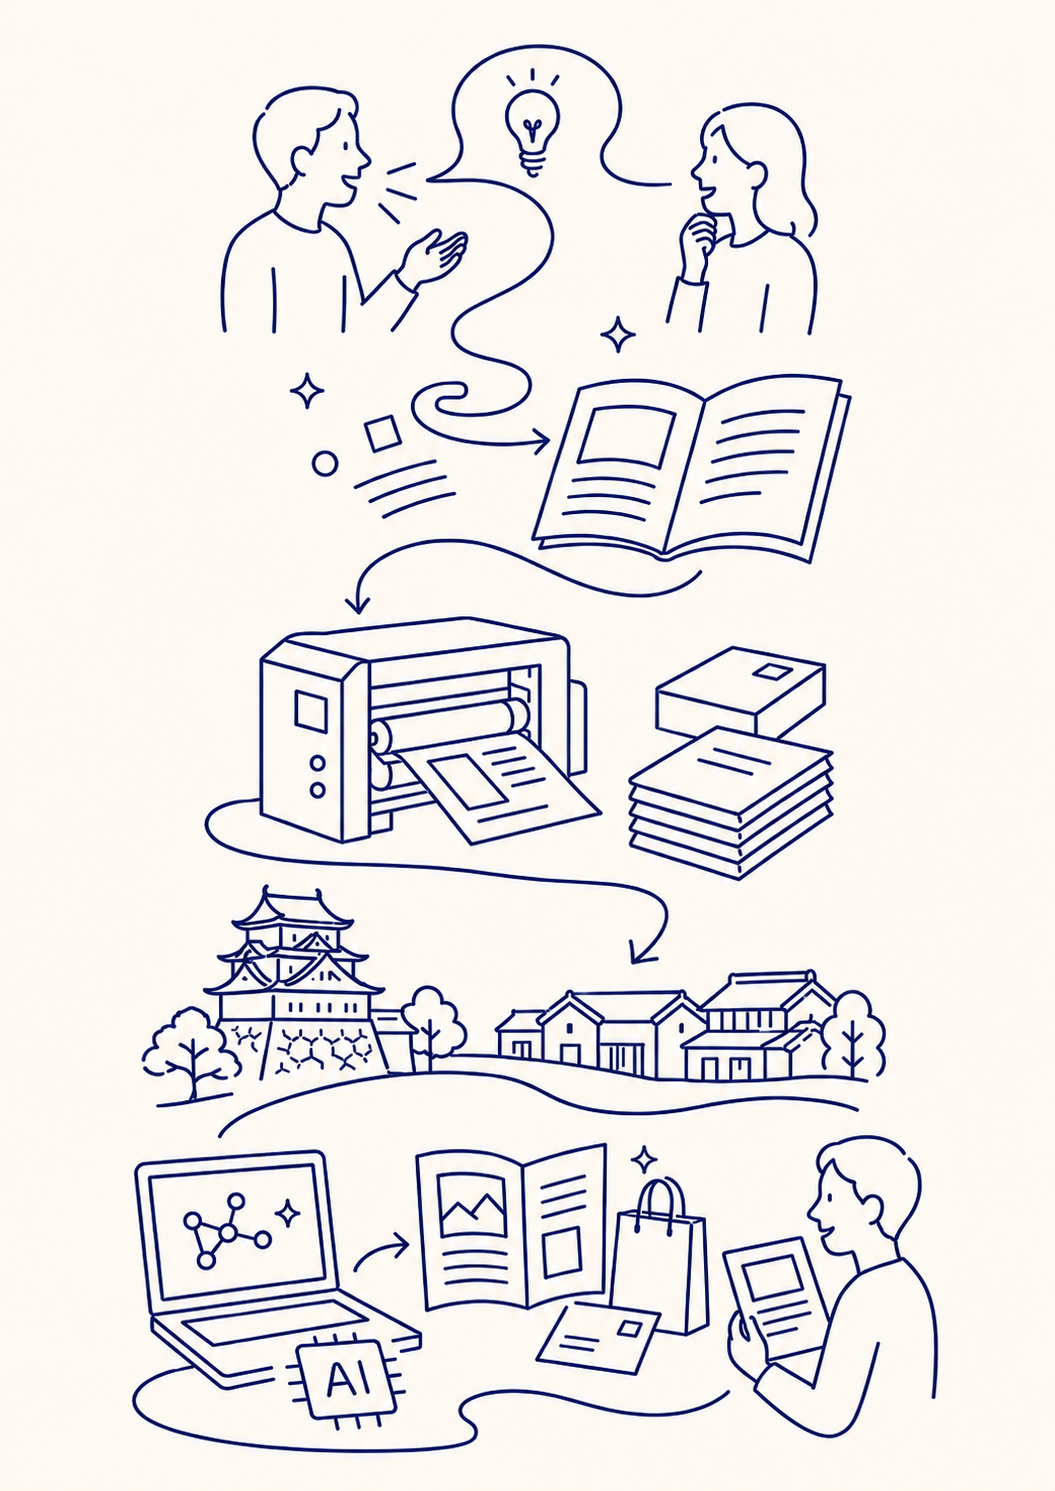
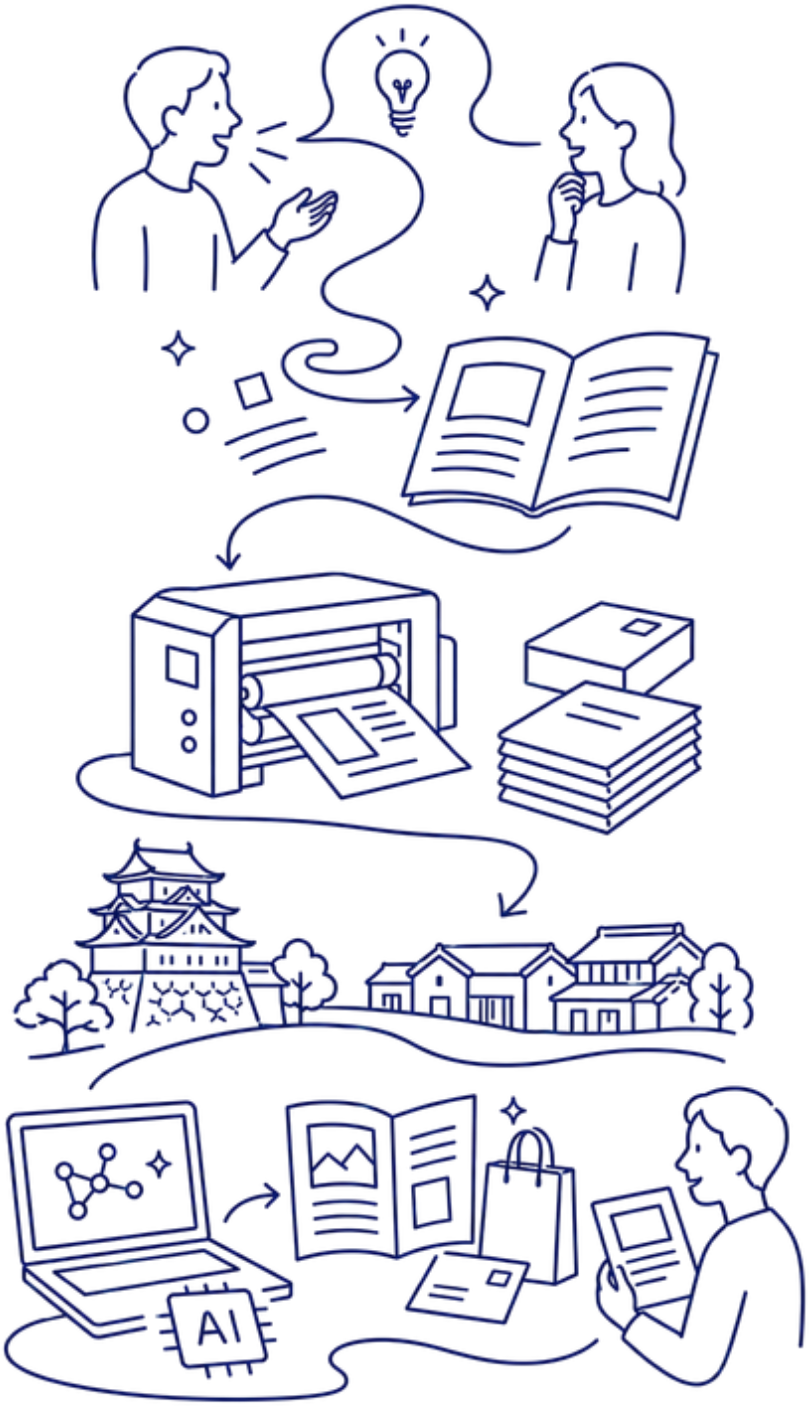
Add files via upload

diff --git a/css/style.css b/css/style.css
@@ -1096,8 +1096,8 @@ h1, h2, h3, h4 {
 .ai-svc-card--gold { border-top-color: var(--warm-gold); }
 
 .ai-svc-card__img {
-  width: 120px;
-  height: 120px;
+  width: 160px;
+  height: 160px;
   margin: 0 auto 1.25rem;
   display: flex;
   align-items: center;
@@ -1135,6 +1135,36 @@ h1, h2, h3, h4 {
 
 @media (max-width: 768px) {
   .ai-svc-card__text { text-align: center; }
+}
+
+/* Service detail pages: smartphone grid adjustments */
+@media (max-width: 640px) {
+  /* communication: 3-col -> 2-col */
+  .biz-grid {
+    grid-template-columns: repeat(2, 1fr) !important;
+    gap: 1rem !important;
+  }
+  /* local-brand: 2-col -> 1-col */
+  .lb-grid {
+    grid-template-columns: 1fr !important;
+  }
+  /* ai-support cards: 3-col -> 1-col */
+  .ai-svc-grid {
+    grid-template-columns: 1fr !important;
+  }
+  /* ai-support seminar results: 1-col -> 2-col */
+  .ai-results-grid {
+    grid-template-columns: repeat(2, 1fr) !important;
+    gap: 0.5rem !important;
+  }
+  .ai-result-item {
+    font-size: 0.82rem;
+    padding: 0.85rem 0.9rem;
+  }
+  /* Service tables: widen first (th) column on smartphone */
+  .service-table th {
+    width: 42% !important;
+  }
 }
 
 /* ========================================
@@ -1228,7 +1258,8 @@ h1, h2, h3, h4 {
 
 .access-route {
   padding: 2rem 1.75rem;
-  background: var(--off-white);
+  background: var(--white);
+  border: 1px solid var(--border);
   border-left: 3px solid var(--navy);
   transition: transform 0.3s, box-shadow 0.3s;
 }
@@ -1341,7 +1372,8 @@ h1, h2, h3, h4 {
 
 .roots-card {
   padding: 2.5rem 2rem 2rem;
-  background: var(--off-white);
+  background: var(--white);
+  border: 1px solid var(--border);
   border-top: 3px solid var(--navy);
   transition: transform 0.4s cubic-bezier(0.215, 0.61, 0.355, 1), box-shadow 0.4s;
   overflow: hidden;
@@ -1357,8 +1389,8 @@ h1, h2, h3, h4 {
 .roots-card--gold { border-top-color: var(--warm-gold); }
 
 .roots-card__img {
-  width: 120px;
-  height: 120px;
+  width: 165px;
+  height: 165px;
   margin: 0 auto 1.25rem;
   display: flex;
   align-items: center;
@@ -2041,13 +2073,13 @@ h1, h2, h3, h4 {
 .hero-v3__tag {
   display: inline-flex;
   align-items: center;
-  gap: 0.6rem;
-  padding: 0.65rem 1.5rem;
+  gap: 0.5rem;
+  padding: 0.45rem 1.1rem;
   background: rgba(11,31,58,0.05);
   border: 1px solid rgba(11,31,58,0.12);
   border-radius: 999px;
-  font-size: 0.85rem;
-  letter-spacing: 0.25em;
+  font-size: 0.68rem;
+  letter-spacing: 0.22em;
   color: var(--navy);
   font-weight: 700;
   margin-bottom: 1.5rem;
@@ -3362,11 +3394,50 @@ h1, h2, h3, h4 {
   .calendar-grid { grid-template-columns: repeat(3, 1fr); }
 }
 
-@media (max-width: 768px) {
-  .section { padding: 4rem 0; }
-
+/* Tablet & below: burger menu */
+@media (max-width: 1024px) {
   .nav__menu { display: none; }
   .nav__hamburger { display: flex; }
+}
+
+/* Smartphone: stack service detail (2-col text/image) blocks */
+@media (max-width: 640px) {
+  .service-detail-row,
+  .service-detail-row-grid {
+    grid-template-columns: 1fr !important;
+    gap: 2.5rem !important;
+  }
+  /* Force image-first ordering on smartphone */
+  .service-detail-row > div:first-child { order: 2; }
+  .service-detail-row > div:nth-child(2) { order: 1; }
+  /* Override any inline order:-1 from Service 02 */
+  .service-detail-row > div[style*="order:-1"] { order: 1 !important; }
+
+  .roots-grid {
+    grid-template-columns: 1fr !important;
+    gap: 1.5rem !important;
+  }
+  .projects-row {
+    grid-template-columns: 1fr !important;
+    gap: 2.5rem !important;
+  }
+  .history-grid {
+    grid-template-columns: 1fr !important;
+    gap: 2.5rem !important;
+  }
+  .history-grid > div[style*="position:sticky"] {
+    position: static !important;
+  }
+  .co-quick-cards {
+    flex-direction: column !important;
+  }
+  .co-quick-cards .co-quick-card {
+    width: 100% !important;
+  }
+}
+
+@media (max-width: 768px) {
+  .section { padding: 4rem 0; }
 
   .hero__inner {
     grid-template-columns: 1fr;

diff --git a/company.html b/company.html
@@ -85,25 +85,6 @@
   <div class="container">
     <div style="max-width:760px;margin:0 auto">
 
-      <!-- Quick links: 沿革・年間休日カレンダー・アクセス -->
-      <div style="display:flex;gap:1.5rem;flex-wrap:wrap;margin-bottom:5rem" class="reveal">
-        <a href="pages/history.html" class="co-quick-card">
-          <div class="co-quick-card__img"><img src="images/co_icon_history.png" alt=""></div>
-          <div class="co-quick-card__label">沿革</div>
-          <div class="co-quick-card__sub">1917年から現在までの歩み</div>
-        </a>
-        <a href="pages/calendar.html" class="co-quick-card">
-          <div class="co-quick-card__img"><img src="images/co_icon_calendar.png" alt=""></div>
-          <div class="co-quick-card__label">年間休日カレンダー</div>
-          <div class="co-quick-card__sub">2026年度の休業日一覧</div>
-        </a>
-        <a href="access.html" class="co-quick-card">
-          <div class="co-quick-card__img"><img src="images/co_icon_access.png" alt=""></div>
-          <div class="co-quick-card__label">アクセス</div>
-          <div class="co-quick-card__sub">地図・駐車場案内</div>
-        </a>
-      </div>
-
       <div class="reveal">
         <span class="section-label">COMPANY PROFILE</span>
         <h2 class="section-title">会社概要</h2>
@@ -117,7 +98,7 @@
         </tr>
         <tr>
           <th>所在地</th>
-          <td>〒444-0059<br>愛知県岡崎市板屋町2番地</td>
+          <td>〒444-0053<br>愛知県岡崎市板屋町2番地</td>
         </tr>
         <tr>
           <th>電話番号</th>
@@ -144,6 +125,25 @@
           </td>
         </tr>
       </table>
+
+      <!-- Quick links: 沿革・年間休日カレンダー・アクセス -->
+      <div class="co-quick-cards reveal" style="display:flex;gap:1.5rem;flex-wrap:wrap;margin-top:4rem">
+        <a href="pages/history.html" class="co-quick-card">
+          <div class="co-quick-card__img"><img src="images/co_icon_history.png" alt=""></div>
+          <div class="co-quick-card__label">沿革</div>
+          <div class="co-quick-card__sub">1917年から現在までの歩み</div>
+        </a>
+        <a href="pages/calendar.html" class="co-quick-card">
+          <div class="co-quick-card__img"><img src="images/co_icon_calendar.png" alt=""></div>
+          <div class="co-quick-card__label">年間休日カレンダー</div>
+          <div class="co-quick-card__sub">2026年度の休業日一覧</div>
+        </a>
+        <a href="access.html" class="co-quick-card">
+          <div class="co-quick-card__img"><img src="images/co_icon_access.png" alt=""></div>
+          <div class="co-quick-card__label">アクセス</div>
+          <div class="co-quick-card__sub">地図・駐車場案内</div>
+        </a>
+      </div>
 
     </div>
   </div>

diff --git a/projects.html b/projects.html
@@ -74,16 +74,17 @@
   <div class="container">
     <div class="text-center reveal" style="max-width:680px;margin:0 auto 5rem">
       <span class="section-label">OUR MISSION</span>
-      <h2 class="section-title">地域には、まだ見える形になっていない<br>素材や物語があります。</h2>
+      <h2 class="section-title">地域には、まだ見える形になっていない素材や物語があります。</h2>
       <div class="divider divider--center"></div>
       <p class="section-subtitle" style="margin:0 auto">
-        岡田印刷は、それらを紙という媒体にかたどり、地域のブランド価値として届けていきます。岡崎で生まれた取り組みを、全国各地の地域資源へと広げていきます。
+        岡田印刷は、地域の名産品を"紙"という媒体にかたどり、地域のブランド価値として届けます。<br>
+        岡崎で生まれた取り組みを、全国各地の地域資源へと広げていきます。
       </p>
     </div>
 
     <!-- Featured: Jimoto no Meishi Project -->
     <div style="background:var(--navy);color:var(--white);padding:4rem;margin-bottom:4rem" class="reveal">
-      <div style="display:grid;grid-template-columns:1fr 1fr;gap:4rem;align-items:center">
+      <div class="projects-row" style="display:grid;grid-template-columns:1fr 1fr;gap:4rem;align-items:center">
         <div>
           <span style="font-size:0.72rem;letter-spacing:0.2em;color:var(--warm-gold);font-weight:600;display:block;margin-bottom:1.5rem">FLAGSHIP PROJECT</span>
           <h2 style="font-family:var(--font-jp);font-size:clamp(1.5rem,3vw,2rem);font-weight:900;margin-bottom:1.25rem;line-height:1.4">地元の銘紙プロジェクト</h2>
@@ -131,7 +132,7 @@
     </div>
 
     <!-- Hatcho Miso Paper -->
-    <div style="display:grid;grid-template-columns:1fr 1fr;gap:3rem;margin-bottom:4rem">
+    <div class="projects-row" style="display:grid;grid-template-columns:1fr 1fr;gap:3rem;margin-bottom:4rem">
       <a href="https://hatcho-miso-paper.jp/" target="_blank" rel="noopener noreferrer" class="project-card project-card--miso reveal">
         <div class="project-card__bg" aria-hidden="true">
           <img src="images/hatcho_miso_card.jpeg" alt="">

diff --git a/access.html b/access.html
@@ -81,7 +81,7 @@
 
         <div class="access-info__item">
           <span class="access-info__label">所在地</span>
-          <span class="access-info__value">〒444-0059<br>愛知県岡崎市板屋町2番地</span>
+          <span class="access-info__value">〒444-0053<br>愛知県岡崎市板屋町2番地</span>
         </div>
         <div class="access-info__item">
           <span class="access-info__label">電話番号</span>
@@ -93,7 +93,7 @@
         </div>
         <div class="access-info__item">
           <span class="access-info__label">営業時間</span>
-          <span class="access-info__value">月〜金 8:30〜17:30<br><span style="font-size:0.82rem;color:var(--text-secondary)">※土・日・祝は休業（年間休日カレンダー参照）</span></span>
+          <span class="access-info__value">月〜金 9:00〜17:00<br><span style="font-size:0.82rem;color:var(--text-secondary)">※土・日・祝は休業（年間休日カレンダー参照）</span></span>
         </div>
         <div class="access-info__item">
           <span class="access-info__label">駐車場</span>
@@ -163,7 +163,7 @@
           <img src="images/access_img_01.jpg" alt="岡田印刷 駐車場マップ">
         </div>
         <p style="font-size:0.78rem;color:var(--text-secondary);margin-top:0.75rem;line-height:1.8">
-          国道1号線「龍城橋西」交差点を岡崎方面へ。事務所入口横の「お客さま駐車場（黄色エリア）」をご利用ください。
+          国道1号線「龍城橋西」交差点を岡崎方面へ。事務所入口横の「お客さま駐車場（赤エリア）」をご利用ください。
         </p>
       </div>
     </div>

diff --git a/services.html b/services.html
@@ -83,7 +83,7 @@
     </div>
 
     <!-- Service 1 -->
-    <div style="display:grid;grid-template-columns:1fr 1fr;gap:5rem;align-items:center;margin-bottom:6rem" class="reveal">
+    <div class="service-detail-row reveal" style="display:grid;grid-template-columns:1fr 1fr;gap:5rem;align-items:center;margin-bottom:6rem">
       <div>
         <span class="section-label">SERVICE 01</span>
         <h2 class="section-title">コミュニケーション<br>デザイン事業</h2>
@@ -135,7 +135,7 @@
     </div>
 
     <!-- Service 2 -->
-    <div style="display:grid;grid-template-columns:1fr 1fr;gap:5rem;align-items:center;margin-bottom:6rem" class="reveal">
+    <div class="service-detail-row reveal" style="display:grid;grid-template-columns:1fr 1fr;gap:5rem;align-items:center;margin-bottom:6rem">
       <div style="padding:0;display:flex;justify-content:center;align-items:center;order:-1">
         <img src="images/svc_hero_local_brand.png" alt="地域資源ブランド化事業" style="width:100%;max-width:520px;height:auto;display:block">
         <svg viewBox="0 0 300 260" fill="none" xmlns="http://www.w3.org/2000/svg" style="display:none" aria-hidden="true">
@@ -175,7 +175,7 @@
     </div>
 
     <!-- Service 3 -->
-    <div style="display:grid;grid-template-columns:1fr 1fr;gap:5rem;align-items:center" class="reveal">
+    <div class="service-detail-row reveal" style="display:grid;grid-template-columns:1fr 1fr;gap:5rem;align-items:center">
       <div>
         <span class="section-label">SERVICE 03</span>
         <h2 class="section-title">生成AI<br>活用支援事業</h2>

diff --git a/pages/services/ai-support.html b/pages/services/ai-support.html
@@ -80,7 +80,7 @@
     </div>
 
     <!-- Service menu -->
-    <div style="display:grid;grid-template-columns:repeat(3,1fr);gap:1.5rem;margin-bottom:5rem">
+    <div class="ai-svc-grid" style="display:grid;grid-template-columns:repeat(3,1fr);gap:1.5rem;margin-bottom:5rem">
       <div class="ai-svc-card ai-svc-card--navy reveal">
         <div class="ai-svc-card__img"><img src="../../images/ai_icon_seminar.png" alt=""></div>
         <h3 class="ai-svc-card__title">生成AIセミナー</h3>
@@ -124,7 +124,6 @@
       <table class="service-table">
         <tr><th>生成AIセミナー</th><td>初心者向け／業種別（製造・小売・医療・士業など）／社内研修。オンライン・対面どちらも対応</td></tr>
         <tr><th>導入支援</th><td>ツール選定、使い方設計、運用ルールづくり、社員への説明資料作成まで</td></tr>
-        <tr><th>プロンプト設計</th><td>業務別の指示文テンプレート作成。メール返信・議事録・企画書・SNS投稿など</td></tr>
         <tr><th>業務改善支援</th><td>現状業務のヒアリングから、AIで改善できるポイントの洗い出し・実装まで</td></tr>
         <tr><th>社内活用支援</th><td>利用ルール策定、活用事例集・マニュアル作成、定期フォローアップ</td></tr>
       </table>

diff --git a/pages/services/communication.html b/pages/services/communication.html
@@ -80,7 +80,7 @@
     </div>
 
     <!-- Items grid -->
-    <div style="display:grid;grid-template-columns:repeat(3,1fr);gap:1.5rem;margin-bottom:5rem">
+    <div class="biz-grid" style="display:grid;grid-template-columns:repeat(3,1fr);gap:1.5rem;margin-bottom:5rem">
       <div class="biz-item reveal">
         <div class="biz-item__img"><img src="../../images/business_img_01.png" alt="チラシ・パンフレット・ポスター"></div>
         <h3 class="biz-item__title">チラシ・パンフレット・ポスター</h3>

diff --git a/pages/services/local-brand.html b/pages/services/local-brand.html
@@ -80,7 +80,7 @@
     </div>
 
     <!-- Value 4 boxes -->
-    <div style="display:grid;grid-template-columns:repeat(2,1fr);gap:1.5rem;margin-bottom:5rem">
+    <div class="lb-grid" style="display:grid;grid-template-columns:repeat(2,1fr);gap:1.5rem;margin-bottom:5rem">
       <div class="lb-value lb-value--green reveal">
         <div class="lb-value__img"><img src="../../images/lb_value_waste.png" alt="廃棄物削減"></div>
         <div class="lb-value__body">

diff --git a/about.html b/about.html
@@ -128,7 +128,7 @@
       <div class="divider divider--center"></div>
     </div>
 
-    <div style="display:grid;grid-template-columns:repeat(3,1fr);gap:2rem;margin-top:3rem">
+    <div class="roots-grid" style="display:grid;grid-template-columns:repeat(3,1fr);gap:2rem;margin-top:3rem">
 
       <div class="roots-card roots-card--navy reveal">
         <div class="roots-card__img"><img src="images/about_roots_100years.png" alt="100年以上の実績"></div>

diff --git a/pages/history.html b/pages/history.html
@@ -85,7 +85,7 @@
 
 <section class="section">
   <div class="container">
-    <div style="display:grid;grid-template-columns:1fr 2fr;gap:6rem;align-items:start">
+    <div class="history-grid" style="display:grid;grid-template-columns:1fr 2fr;gap:6rem;align-items:start">
 
       <!-- Sticky intro -->
       <div class="reveal" style="position:sticky;top:100px">
